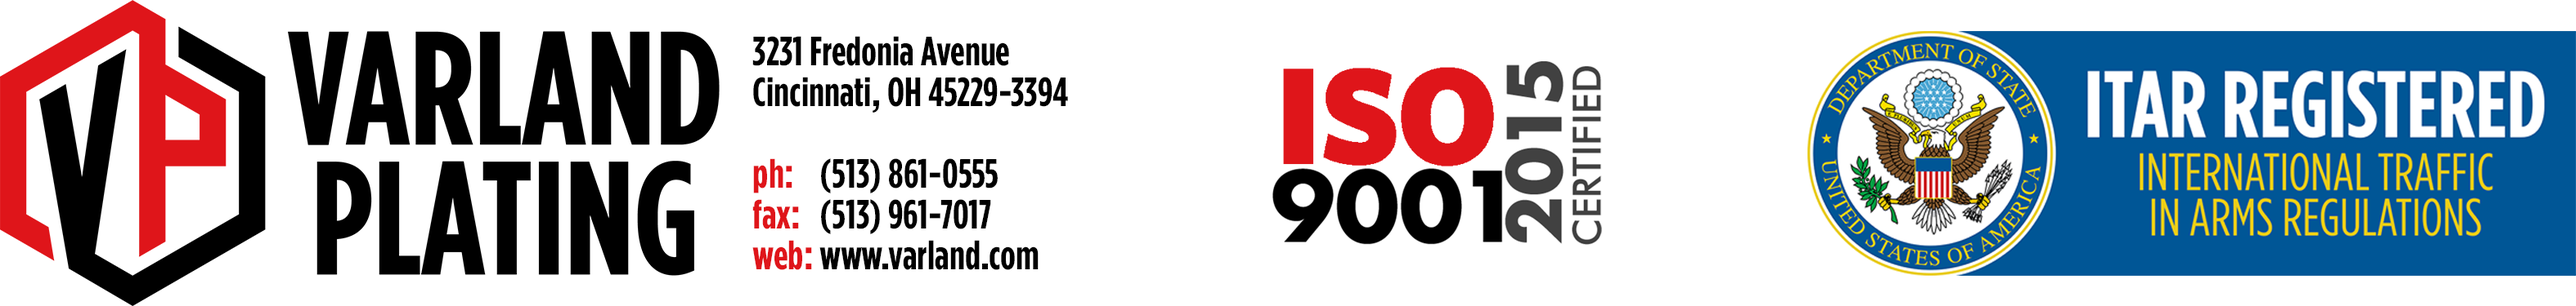
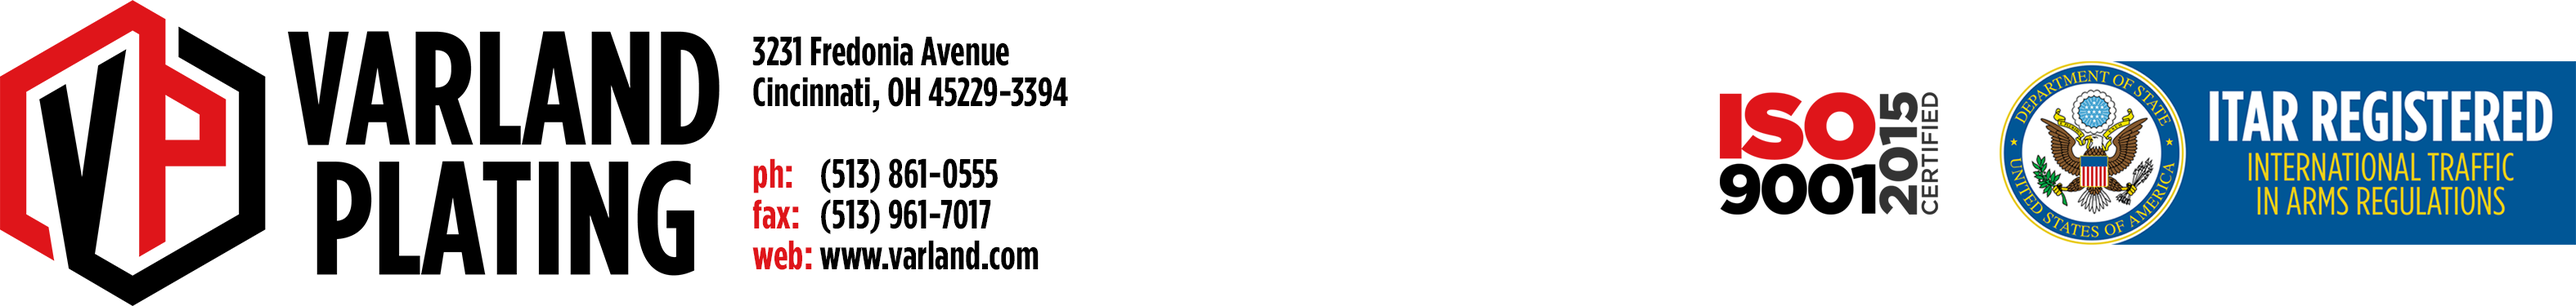
Begin working on certifications and shipping tickets

Changed region(s): [[0.6533, 0.088, 1.0, 0.9093], [0.4667, 0.2053, 0.6222, 0.792]]

diff --git a/app/pdfs/certification.rb b/app/pdfs/certification.rb
@@ -1,0 +1,129 @@
+# Class for printing plating certification from System i.
+class Certification < VarlandPdf
+
+  # Default page orientation for Varland documents. May be overridden in child classes.
+  PAGE_ORIENTATION = :landscape
+
+  # Default letterhead format. May be overridden in child classes.
+  LETTERHEAD_FORMAT = :packing_list
+
+  # Constructor.
+  def initialize
+
+    # Call parent constructor.
+    super
+
+    # Draw standard format.
+    self.draw_format
+
+    # Load data.
+    self.load_data
+
+    # Draw data on certification.
+    self.draw_data
+
+  end
+
+  # Loads certification data.
+  def load_data
+    path = Rails.root.join("lib", "assets", "sample_data", "shipper.json")
+    file_data = File.read(path)
+    @data = JSON.parse(file_data, symbolize_names: true)
+  end
+
+  # Draws data on certification.
+  def draw_data
+
+    # Print sold to and ship to.
+    self.txtb("DIAMOND CHAIN CO.\n402 KENTUCKY AVE.\nINDIANAPOLIS, IN 46225", 0.5, 6.75, 3, 1, v_align: :top, h_align: :left, style: :bold)
+    self.txtb("DIAMOND CHAIN CO.\n402 KENTUCKY AVE.\nINDIANAPOLIS, IN 46225", 5.75, 6.75, 3, 1, v_align: :top, h_align: :left, style: :bold)
+
+    # Print shipper number.
+    self.txtb(@data[:shipper], 9.75, 6.5, 1, 0.25, style: :bold, size: 16)
+
+    # Print certification date, ship via, and vendor code.
+    self.txtb("CERTIFICATION DATE: <b>#{Time.iso8601(@data[:orders][0][:ship_date]).strftime("%m/%d/%y")}</b>", 0.25, 5.27, 5.25, 0.25, v_align: :bottom, h_align: :left, size: 9)
+    self.txtb("SHIP VIA: <b>#{@data[:how_shipped][:description]}</b>", 5.5, 5.27, 3, 0.25, v_align: :bottom, h_align: :left, size: 9)
+    unless @data[:customer][:vendor_id].blank?
+      self.txtb("<b>#{@data[:customer][:vendor_id]}</b>", 9.75, 5.27, 1, 0.25, v_align: :bottom, h_align: :right, size: 9)
+    end
+
+    # Print data.
+    y = 3.98
+    height = 0.15
+    self.txtb("299855", 0.25, y, 0.6, height, size: 9, style: :bold)
+    self.txtb("09/17/19", 0.85, y, 0.75, height, size: 9, style: :bold)
+    self.txtb("70.00", 1.6, y, 0.75, height, size: 9, style: :bold, h_align: :right, h_pad: 0.05)
+    self.txtb("34,535", 2.35, y, 0.75, height, size: 9, style: :bold, h_align: :right, h_pad: 0.05)
+    self.txtb("1 BUCKET", 3.1, y, 1, height, size: 9, style: :bold)
+    self.txtb("82891", 4.1, y, 1.4, height, size: 9, style: :bold, h_align: :left, h_pad: 0.05)
+    self.txtb("ZN-1282AG", 5.5, y, 1.85, height, size: 9, style: :bold, h_align: :left, h_pad: 0.05)
+    self.txtb("WE CERTIFY THAT THIS LOT OF PARTS", 7.35, y, 2.6, height, size: 9, style: :bold, h_align: :left, h_pad: 0.05)
+    self.txtb("COMPLETE", 9.95, y, 0.8, height, size: 9, style: :bold)
+    y -= height
+    self.txtb("35ZN RIVITED PIN", 5.5, y, 1.85, height, size: 9, style: :bold, h_align: :left, h_pad: 0.05)
+    self.txtb("WAS PROCESSED TO THE FOLLOWING", 7.35, y, 2.6, height, size: 9, style: :bold, h_align: :left, h_pad: 0.05)
+    y -= height
+    self.txtb("PARAMETERS:", 7.35, y, 2.6, height, size: 9, style: :bold, h_align: :left, h_pad: 0.05)
+    y -= 2 * height
+    self.txtb("ZINC-NICKEL (.00015\" - 0.003\")", 7.35, y, 2.6, height, size: 9, style: :bold, h_align: :left, h_pad: 0.05)
+    y -= height
+    self.txtb("BAKE @ 265º F - 320º F FOR 8 HRS", 7.35, y, 2.6, height, size: 9, style: :bold, h_align: :left, h_pad: 0.05)
+    y -= height
+    self.txtb("& CLEAR TRIVALENT CHROMATE", 7.35, y, 2.6, height, size: 9, style: :bold, h_align: :left, h_pad: 0.05)
+    y -= height
+    self.txtb("PLUS ORGANIC TOPCOAT", 7.35, y, 2.6, height, size: 9, style: :bold, h_align: :left, h_pad: 0.05)
+    y -= height
+    self.txtb("PROCESS SPECIFICATION 12516", 7.35, y, 2.6, height, size: 9, style: :bold, h_align: :left, h_pad: 0.05)
+    y -= 3 * height
+    self.signature(:greg_turner, 7.4, y + 0.3, 2.5, 0.3, h_align: :left, baseline_shift: -0.06)
+    self.hline(7.4, y, 2.5)
+    self.txtb("GREG TURNER", 7.35, y, 2.6, height, size: 9, style: :bold, h_align: :left, h_pad: 0.05)
+    y -= height
+    self.txtb("QUALITY CONTROL MANAGER", 7.35, y, 2.6, height, size: 9, style: :bold, h_align: :left, h_pad: 0.05)
+    y -= height
+    self.txtb("09/24/19", 7.35, y, 2.6, height, size: 9, style: :bold, h_align: :left, h_pad: 0.05)
+
+  end
+
+  # Draws standard format.
+  def draw_format
+
+    # Print ship to and sold to labels.
+    self.txtb("S\nO\nL\nD\n \nT\nO", 0.25, 6.75, 0.15, 1, v_align: :top, h_align: :center, size: 8)
+    self.txtb("S\nH\nI\nP\n \nT\nO", 5.5, 6.75, 0.15, 1, v_align: :top, h_align: :center, size: 8)
+
+    # Draw shipper number box.
+    self.txtb("SHIPPER #", 9.75, 6.75, 1, 0.25, line_color: '000000', fill_color: 'dddddd', size: 8, style: :bold)
+
+    # Draw box for certification.
+    self.txtb("PLATING CERTIFICATION", 0.25, 5, 10.5, 0.75, line_color: "000000", size: 30, style: :bold)
+    header_options = {line_color: '000000', fill_color: 'dddddd', size: 8}
+    self.txtb("S.O. #", 0.25, 4.25, 0.6, 0.25, header_options)
+    self.txtb("S.O. DATE", 0.85, 4.25, 0.75, 0.25, header_options)
+    self.txtb("POUNDS", 1.6, 4.25, 0.75, 0.25, header_options)
+    self.txtb("PIECES", 2.35, 4.25, 0.75, 0.25, header_options)
+    self.txtb("CONTAINERS", 3.1, 4.25, 1, 0.25, header_options)
+    self.txtb("CUSTOMER PO #", 4.1, 4.25, 1.4, 0.25, header_options)
+    self.txtb("PART DESCRIPTION", 5.5, 4.25, 1.85, 0.25, header_options)
+    self.txtb("PROCESS SPECIFICATION", 7.35, 4.25, 2.6, 0.25, header_options)
+    self.txtb("STATUS", 9.95, 4.25, 0.8, 0.25, header_options)
+    self.rect(0.25, 4, 0.6, 3.25)
+    self.rect(0.85, 4, 0.75, 3.25)
+    self.rect(1.6, 4, 0.75, 3.25)
+    self.rect(2.35, 4, 0.75, 3.25)
+    self.rect(3.1, 4, 1, 3.25)
+    self.rect(4.1, 4, 1.4, 3.25)
+    self.rect(5.5, 4, 1.85, 3.25)
+    self.rect(7.35, 4, 2.6, 3.25)
+    self.rect(9.95, 4, 0.8, 3.25)
+
+    # Draw received by line.
+    text = "Received By: "
+    width = self.calcwidth(text, size: 8)
+    self.txtb(text, 0.25, 0.5, width, 0.25, v_align: :bottom, size: 8, h_align: :left)
+    self.hline(0.25 + width, 0.25, 4)
+
+  end
+
+end

diff --git a/app/pdfs/varland_pdf.rb b/app/pdfs/varland_pdf.rb
@@ -42,6 +42,9 @@ class VarlandPdf < Prawn::Document
   # Constructor. Initializes Prawn document and loads custom font files.
   def initialize
 
+    # Suppress character warning.
+    Prawn::Font::AFM.hide_m17n_warning = true
+
     # Initialize Prawn document.
     super(top_margin: self.class::PAGE_MARGIN,
           bottom_margin: self.class::PAGE_MARGIN,
@@ -55,37 +58,33 @@ class VarlandPdf < Prawn::Document
   end
 
   # Intercept render method for drawing letterhead graphics.
-  def render()
+  def render
 
-    # Determine letterhead properties.
-    path = nil
-    x = nil
-    y = nil
-    width = nil
-    height = 1.25
-    case self.class::LETTERHEAD_FORMAT
-    when :portrait
-      path = Rails.root.join('lib', 'assets', 'letterhead', "portrait.png")
-      x = 0.25
-      y = 10.75
-      width = 8
-    when :landscape
-      path = Rails.root.join('lib', 'assets', 'letterhead', "landscape.png")
-      x = 0.25
-      y = 8.25
-      width = 10.5
-    when :packing_list
-      path = Rails.root.join('lib', 'assets', 'letterhead', "packing_list.png")
-      x = 0.25
-      y = 8.25
-      width = 10.5
-    end
+    # Skip if page is not letterhead.
+    unless self.class::LETTERHEAD_FORMAT == :none
 
-    # Draw graphic on each page if necessary.
-    if path
+      # Determine letterhead properties.
+      path = Rails.root.join('lib', 'assets', 'letterhead', "#{self.class::LETTERHEAD_FORMAT.to_s}.png")
+      x = nil
+      y = nil
+      width = nil
+      height = 1.25
+      case self.class::LETTERHEAD_FORMAT
+      when :portrait, :portrait_mono
+        x = 0.25
+        y = 10.75
+        width = 8
+      when :landscape, :landscape_mono, :packing_list, :packing_list_mono
+        x = 0.25
+        y = 8.25
+        width = 10.5
+      end
+
+      # Draw graphic on each page.
       self.repeat(:all) do
         self.image(path, at: [x.in, y.in], width: width.in, height: height.in)
       end
+
     end
 
     # Call parent render.
@@ -251,15 +250,15 @@ class VarlandPdf < Prawn::Document
 
     # Save PNG file.
     png_file = Tempfile.new(['qr', '.png'])
-    png_file.binmode()
+    png_file.binmode
     png_file.write(code.to_png(margin: 0))
-    png_file.close()
+    png_file.close
 
     # Draw QR code on PDF.
     self.image(png_file.path, at: [x.in, y.in], width: width.in, height: height.in)
 
     # Delete tempfile.
-    png_file.unlink()
+    png_file.unlink
 
   end
 
@@ -274,22 +273,22 @@ class VarlandPdf < Prawn::Document
 
     # Save PNG file.
     png_file = Tempfile.new(['barcode', '.png'])
-    png_file.binmode()
+    png_file.binmode
     png_file.write(code.to_png(margin: 0))
-    png_file.close()
+    png_file.close
     png_width, png_height = FastImage.size(png_file.path)
 
     # Draw barcode.
     self.image(png_file.path, at: [x.in, y.in], width: width.in, height: height.in)
 
     # Delete tempfile.
-    png_file.unlink()
+    png_file.unlink
 
   end
 
   # Draws rectangle.
   def rect(x, y, width, height, options = {})
-    self.save_current_properties()
+    self.save_current_properties
     line_color = options.fetch(:line_color, self.class::DEFAULT_LINE_COLOR)
     fill_color = options.fetch(:fill_color, nil)
     unless fill_color.blank?
@@ -301,29 +300,29 @@ class VarlandPdf < Prawn::Document
       self.line_width = options[:line_width].in if options.key?(:line_width) && !options[:line_width].blank?
       self.stroke_rectangle([x.in, y.in], width.in, height.in)
     end
-    self.restore_saved_properties()
+    self.restore_saved_properties
   end
 
   # Draws horizontal line.
   def hline(x, y, length, options = {})
     line_color = options.fetch(:line_color, self.class::DEFAULT_LINE_COLOR)
     return if line_color.blank?
-    self.save_current_properties()
+    self.save_current_properties
     self.stroke_color(line_color)
     self.line_width = options[:line_width].in if options.key?(:line_width) && !options[:line_width].blank?
     self.stroke_line([x.in, y.in], [(x + length).in, y.in])
-    self.restore_saved_properties()
+    self.restore_saved_properties
   end
 
   # Draws vertical line.
   def vline(x, y, length, options = {})
     line_color = options.fetch(:line_color, self.class::DEFAULT_LINE_COLOR)
     return if line_color.blank?
-    self.save_current_properties()
+    self.save_current_properties
     self.stroke_color(line_color)
     self.line_width = options[:line_width].in if options.key?(:line_width) && !options[:line_width].blank?
     self.stroke_line([x.in, y.in], [x.in, (y - length).in])
-    self.restore_saved_properties()
+    self.restore_saved_properties
   end
 
   # Calculates width of given text.
@@ -387,7 +386,7 @@ class VarlandPdf < Prawn::Document
   def grid(x, y, column_widths, rows, row_height, options = {})
 
     # Save current properties.
-    self.save_current_properties()
+    self.save_current_properties
 
     # Load passed options or fall back to defaults.
     fill_color = options.fetch(:fill_color, nil)
@@ -494,7 +493,7 @@ class VarlandPdf < Prawn::Document
     end
 
     # Restore saved properties.
-    self.restore_saved_properties()
+    self.restore_saved_properties
 
   end
   alias_method :table, :grid

diff --git a/app/objects/data_table.rb b/app/objects/data_table.rb
@@ -87,7 +87,7 @@ class DataTable
   def draw(pdf)
 
     # Determine number of pages needed.
-    pages = self.calculate_pages()
+    pages = self.calculate_pages
     return if pages == 0
 
     # Determine number of rows per page.
@@ -101,7 +101,7 @@ class DataTable
       # If this is the first row on a page, create new page if necessary and draw header.
       if index % rows_per_page == 0
         if index != 0
-          pdf.start_new_page()
+          pdf.start_new_page
         end
         #pdf.rect(@x, @y, @width, @height, fill_color: 'edf3fe', line_color: nil)
         self.draw_header(pdf)

diff --git a/app/controllers/pdf_controller.rb b/app/controllers/pdf_controller.rb
@@ -1,5 +1,9 @@
 class PdfController < ApplicationController
 
+  def certification
+    self.send_pdf(Certification.new, 'Certification')
+  end
+
   def purchase_order
     self.send_pdf(PurchaseOrder.new, 'PurchaseOrder')
   end
@@ -15,7 +19,7 @@ class PdfController < ApplicationController
 protected
 
   def send_pdf(pdf, name)
-    send_data pdf.render(),
+    send_data pdf.render,
               filename: "#{name}.pdf",
               type: 'application/pdf',
               disposition: 'inline'

diff --git a/app/pdfs/purchase_order.rb b/app/pdfs/purchase_order.rb
@@ -5,13 +5,13 @@ class PurchaseOrder < VarlandPdf
   PAGE_ORIENTATION = :landscape
 
   # Default letterhead format. May be overridden in child classes.
-  LETTERHEAD_FORMAT = :landscape
+  LETTERHEAD_FORMAT = :packing_list
 
   # Constructor.
   def initialize
 
     # Call parent constructor.
-    super()
+    super
 
   end
 

diff --git a/config/routes.rb b/config/routes.rb
@@ -4,5 +4,6 @@ Rails.application.routes.draw do
   match "/sample" => "pdf#sample", via: [:post, :get]
   match "/purchase_order" => "pdf#purchase_order", via: [:post, :get]
   match "/bakesheet" => "pdf#bakesheet", via: [:post, :get]
+  match "/certification" => "pdf#certification", via: [:post, :get]
 
 end

diff --git a/app/pdfs/bakesheet.rb b/app/pdfs/bakesheet.rb
@@ -5,10 +5,10 @@ class Bakesheet < VarlandPdf
   def initialize
 
     # Call parent constructor.
-    super()
+    super
 
     # Call function to draw format.
-    self.draw_format()
+    self.draw_format
 
   end
 

diff --git a/app/pdfs/sample.rb b/app/pdfs/sample.rb
@@ -5,10 +5,10 @@ class Sample < VarlandPdf
   def initialize
 
     # Call parent constructor.
-    super()
+    super
 
     # Call function to draw format.
-    self.draw_format()
+    self.draw_format
 
   end
 
